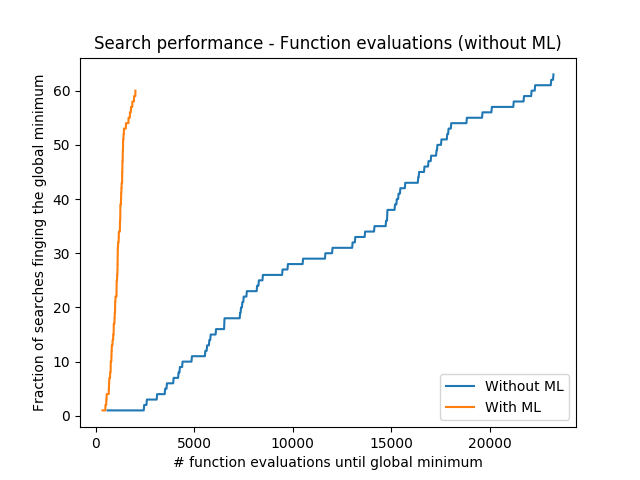
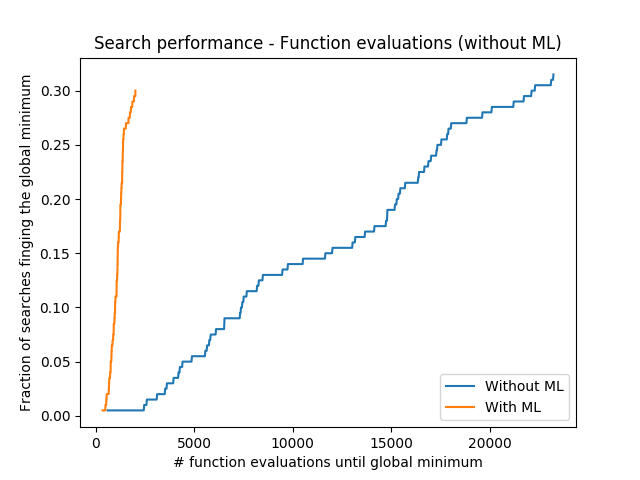
update

Changed region(s): [[0.0312, 0.1562, 0.125, 0.875]]

diff --git a/krrThomas/performanceCurve.py b/krrThomas/performanceCurve.py
@@ -39,8 +39,8 @@ plt.ylabel('Fraction of searches finging the global minimum')
 
 plt.figure(2)
 plt.title('Search performance - Function evaluations (without ML)')
-plt.plot(Nfev_base[:-1], Nfev_cum, label='Without ML')
-plt.plot(NfevML_base[:-1], NfevML_cum, label='With ML')
+plt.plot(Nfev_base[:-1], Nfev_cum/200, label='Without ML')
+plt.plot(NfevML_base[:-1], NfevML_cum/200, label='With ML')
 plt.legend()
 plt.xlabel('# function evaluations until global minimum')
 plt.ylabel('Fraction of searches finging the global minimum')
